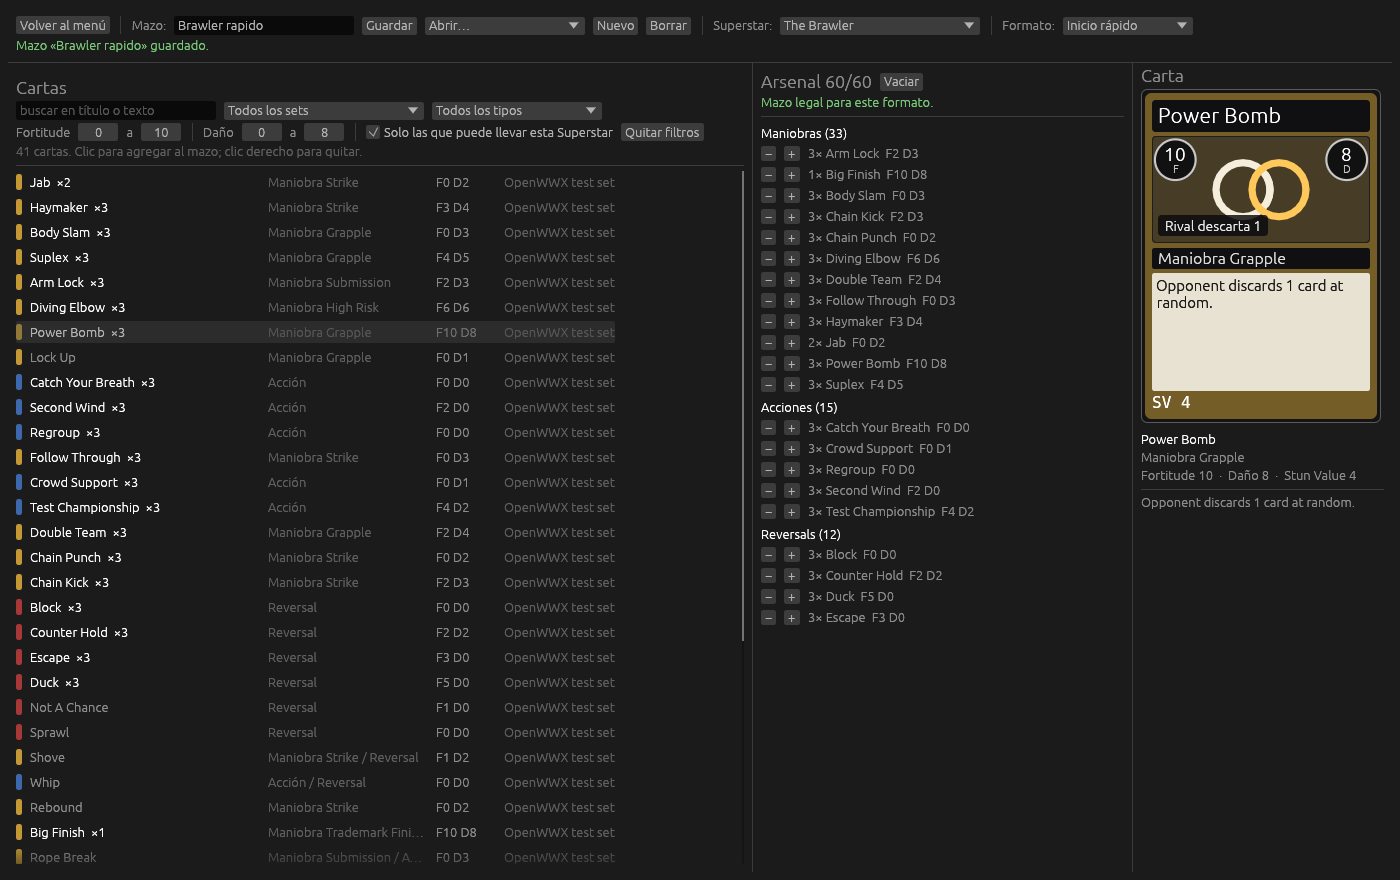
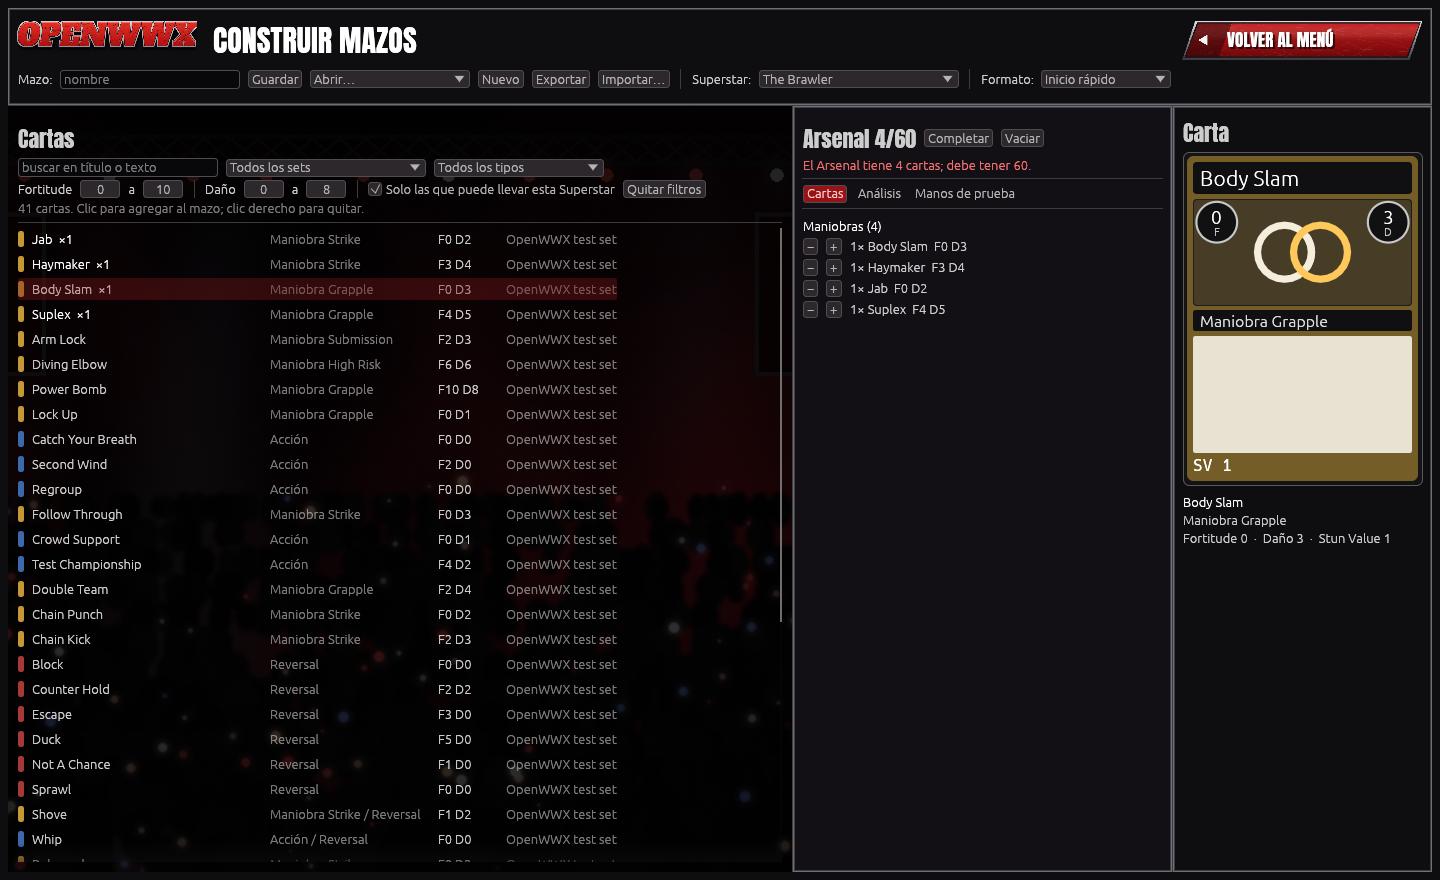
Deck builder, waiting room and windows in the new style
The deck builder gets a top bar with the logo, a title in the display font
and an angled Volver al menú button, framed side panels and the arena behind
the catalog. The online waiting room shows the logo and a panel over the
arena, and the end of a match offers big Revancha / Volver al menú buttons.
Headings and window titles use the display font, and plain text is a bit
brighter.

Claude-Session: https://claude.ai/code/session_01H1KE2APspBJgaiSkz7Xzam

diff --git a/crates/openwwx/src/game.rs b/crates/openwwx/src/game.rs
@@ -415,12 +415,35 @@ impl Match {
     /// Who is connected, while an online match waits for its players.
     fn lobby(&mut self, ui: &mut Ui) -> Leave {
         let mut leave = Leave::Stay;
+        if self.table.online_state().is_none() {
+            return leave;
+        }
+        egui::CentralPanel::default().frame(egui::Frame::NONE).show(ui, |ui| {
+            theme::backdrop(ui, 90);
+            ui.vertical_centered(|ui| {
+                ui.add_space(30.0);
+                theme::logo(ui, 90.0);
+                ui.add_space(16.0);
+            });
+            let width = ui.available_width().min(640.0);
+            ui.horizontal(|ui| {
+                ui.add_space((ui.available_width() - width) / 2.0);
+                theme::panel().show(ui, |ui| {
+                    ui.set_width(width - 20.0);
+                    self.lobby_body(ui, &mut leave);
+                });
+            });
+        });
+        leave
+    }
+
+    fn lobby_body(&mut self, ui: &mut Ui, leave: &mut Leave) {
         let port = self.table.hosting_port();
         let hosting = self.table.hosting();
-        let Some(online) = self.table.online_state() else { return leave };
-        egui::CentralPanel::default().show(ui, |ui| {
+        let Some(online) = self.table.online_state() else { return };
+        {
             ui.vertical_centered(|ui| {
-                ui.add_space(40.0);
+                ui.add_space(8.0);
                 match &online.info {
                     Some(info) => {
                         ui.heading(RichText::new(&info.name).size(28.0).strong());
@@ -471,12 +494,12 @@ impl Match {
                     }
                 }
                 ui.add_space(12.0);
-                if ui.button("Volver al menú").clicked() {
-                    leave = Leave::Menu;
+                if theme::big_button(ui, theme::Icon::Back, "VOLVER AL MENÚ", 240.0).clicked() {
+                    *leave = Leave::Menu;
                 }
+                ui.add_space(4.0);
             });
-        });
-        leave
+        }
     }
 
     /// Replays queued events until one needs time on screen.
@@ -910,10 +933,10 @@ impl Match {
             let local = self.table.online_state().is_none();
             ui.horizontal(|ui| {
                 ui.label(RichText::new(text::outcome(outcome, &self.voice())).size(20.0).strong());
-                if local && ui.button("Revancha").clicked() {
+                if local && theme::big_button(ui, theme::Icon::Play, "REVANCHA", 200.0).clicked() {
                     leave = Some(Leave::Rematch);
                 }
-                if ui.button("Volver al menú").clicked() {
+                if theme::big_button(ui, theme::Icon::Back, "VOLVER AL MENÚ", 240.0).clicked() {
                     leave = Some(Leave::Menu);
                 }
             });

diff --git a/crates/openwwx/src/builder.rs b/crates/openwwx/src/builder.rs
@@ -15,6 +15,7 @@ use crate::analysis::{self, AXES, Analysis};
 use crate::cards::{self, Look, Preview};
 use crate::sync::{self, Account};
 use crate::text;
+use crate::theme::{self, Icon};
 
 /// Where saved decks live, one `.ron` file each.
 pub fn decks_dir() -> Option<PathBuf> {
@@ -494,13 +495,19 @@ impl Builder {
         let mut exit = Exit::Stay;
         self.poll_account();
         self.share_window(ui.ctx());
-        egui::Panel::top("builder-top").show(ui, |ui| {
-            ui.add_space(6.0);
+        egui::Panel::top("builder-top").frame(theme::side_frame()).show(ui, |ui| {
+            ui.horizontal(|ui| {
+                theme::logo(ui, 36.0);
+                ui.add_space(8.0);
+                theme::heading(ui, "CONSTRUIR MAZOS", 30.0);
+                ui.with_layout(egui::Layout::right_to_left(egui::Align::Center), |ui| {
+                    if theme::big_button(ui, Icon::Back, "VOLVER AL MENÚ", 240.0).clicked() {
+                        exit = Exit::Menu(self.saved_as.clone());
+                    }
+                });
+            });
+            ui.add_space(4.0);
             ui.horizontal_wrapped(|ui| {
-                if ui.button("Volver al menú").clicked() {
-                    exit = Exit::Menu(self.saved_as.clone());
-                }
-                ui.separator();
                 ui.label("Mazo:");
                 ui.add(egui::TextEdit::singleline(&mut self.name).hint_text("nombre").desired_width(180.0));
                 if ui.button("Guardar").clicked() {
@@ -598,9 +605,22 @@ impl Builder {
             }
             ui.add_space(4.0);
         });
-        egui::Panel::right("builder-preview").resizable(false).exact_size(260.0).show(ui, cards::preview_panel);
-        egui::Panel::right("builder-deck").resizable(true).default_size(380.0).show(ui, |ui| self.deck_ui(ui));
-        egui::CentralPanel::default().show(ui, |ui| self.catalog_ui(ui));
+        egui::Panel::right("builder-preview")
+            .resizable(false)
+            .exact_size(260.0)
+            .frame(theme::side_frame())
+            .show(ui, cards::preview_panel);
+        egui::Panel::right("builder-deck")
+            .resizable(true)
+            .default_size(380.0)
+            .frame(theme::side_frame().fill(egui::Color32::from_rgb(18, 16, 20)))
+            .show(ui, |ui| self.deck_ui(ui));
+        egui::CentralPanel::default().frame(egui::Frame::NONE.inner_margin(egui::Margin::same(10))).show(ui, |ui| {
+            let full = ui.max_rect().expand(10.0);
+            theme::cover(ui, &theme::get(ui.ctx()).arena, full);
+            ui.painter().rect_filled(full, 0.0, egui::Color32::from_black_alpha(205));
+            self.catalog_ui(ui)
+        });
         exit
     }
 

diff --git a/crates/openwwx/src/theme.rs b/crates/openwwx/src/theme.rs
@@ -33,6 +33,8 @@ pub enum Icon {
     Exit,
     Picture,
     Folder,
+    /// The play arrow, pointing left.
+    Back,
 }
 
 pub struct Theme {
@@ -84,6 +86,7 @@ pub fn install(ctx: &Context) {
 
     ctx.set_theme(egui::Theme::Dark);
     ctx.style_mut_of(egui::Theme::Dark, |style| {
+        style.text_styles.insert(egui::TextStyle::Heading, display_font(22.0));
         let v = &mut style.visuals;
         *v = egui::Visuals::dark();
         v.panel_fill = Color32::from_rgb(14, 13, 16);
@@ -93,6 +96,7 @@ pub fn install(ctx: &Context) {
         v.selection.bg_fill = Color32::from_rgb(150, 20, 24);
         v.selection.stroke = Stroke::new(1.0, Color32::from_rgb(255, 200, 200));
         v.hyperlink_color = Color32::from_rgb(255, 120, 110);
+        v.widgets.noninteractive.fg_stroke.color = Color32::from_gray(205);
         let w = &mut v.widgets;
         w.inactive.weak_bg_fill = Color32::from_rgb(44, 40, 44);
         w.inactive.bg_fill = Color32::from_rgb(44, 40, 44);
@@ -147,6 +151,11 @@ pub fn paint_image(ui: &Ui, texture: &TextureHandle, rect: Rect, tint: Color32) 
 
 pub fn paint_icon(ui: &Ui, icon: Icon, rect: Rect, tint: Color32) {
     let theme = get(ui.ctx());
+    if let Icon::Back = icon {
+        let mirrored = Rect::from_min_max(pos2(1.0, 0.0), pos2(0.0, 1.0));
+        ui.painter().image(theme.icons[Icon::Play as usize].id(), rect, mirrored, tint);
+        return;
+    }
     paint_image(ui, &theme.icons[icon as usize], rect, tint);
 }
 
@@ -247,4 +256,25 @@ pub fn shadow_text(ui: &Ui, pos: Pos2, align: Align2, text: &str, font: FontId, 
         ui.painter().text(pos + d, align, text, font.clone(), Color32::from_black_alpha(200));
     }
     ui.painter().text(pos, align, text, font, color);
+}
+
+/// The arena behind a screen, darkened so panels on it read well.
+pub fn backdrop(ui: &Ui, darken: u8) {
+    let rect = ui.max_rect();
+    cover(ui, &get(ui.ctx()).arena, rect);
+    ui.painter().rect_filled(rect, 0.0, Color32::from_black_alpha(darken));
+}
+
+/// The frame of a side or top panel: dark, with a metal edge.
+pub fn side_frame() -> egui::Frame {
+    egui::Frame::new().fill(Color32::from_rgb(14, 13, 16)).stroke(Stroke::new(1.5, METAL)).inner_margin(Margin::same(8))
+}
+
+/// The OPENWWX logo, `height` tall.
+pub fn logo(ui: &mut Ui, height: f32) -> Response {
+    let logo = &get(ui.ctx()).logo;
+    let [w, h] = logo.size().map(|v| v as f32);
+    let (rect, response) = ui.allocate_exact_size(vec2(height * w / h, height), Sense::hover());
+    paint_image(ui, logo, rect, Color32::WHITE);
+    response
 }
